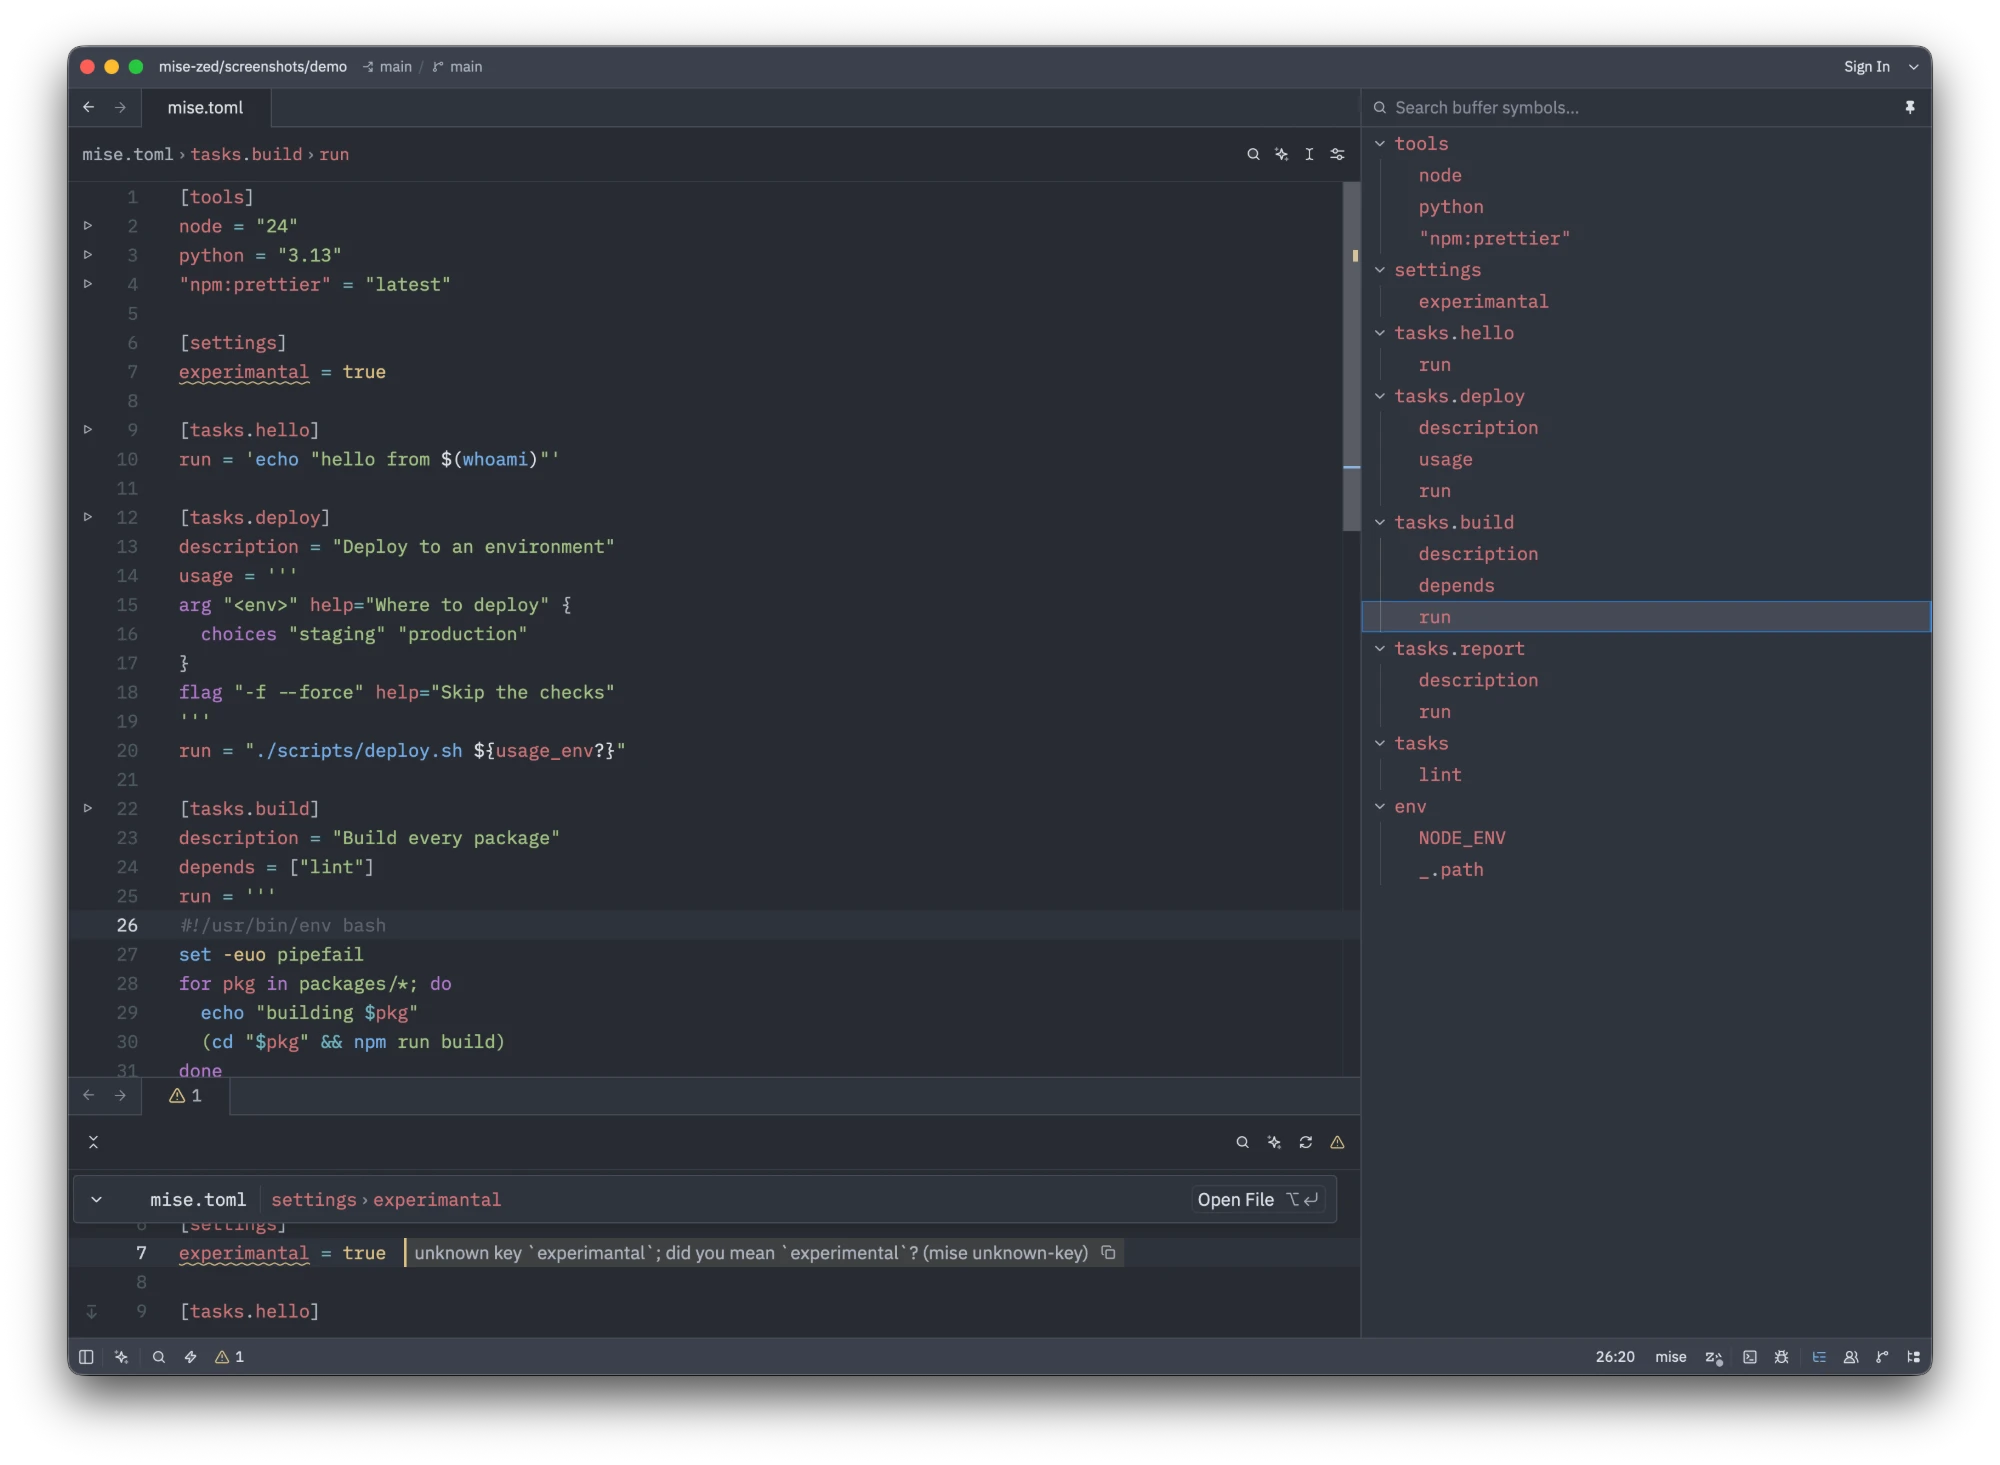
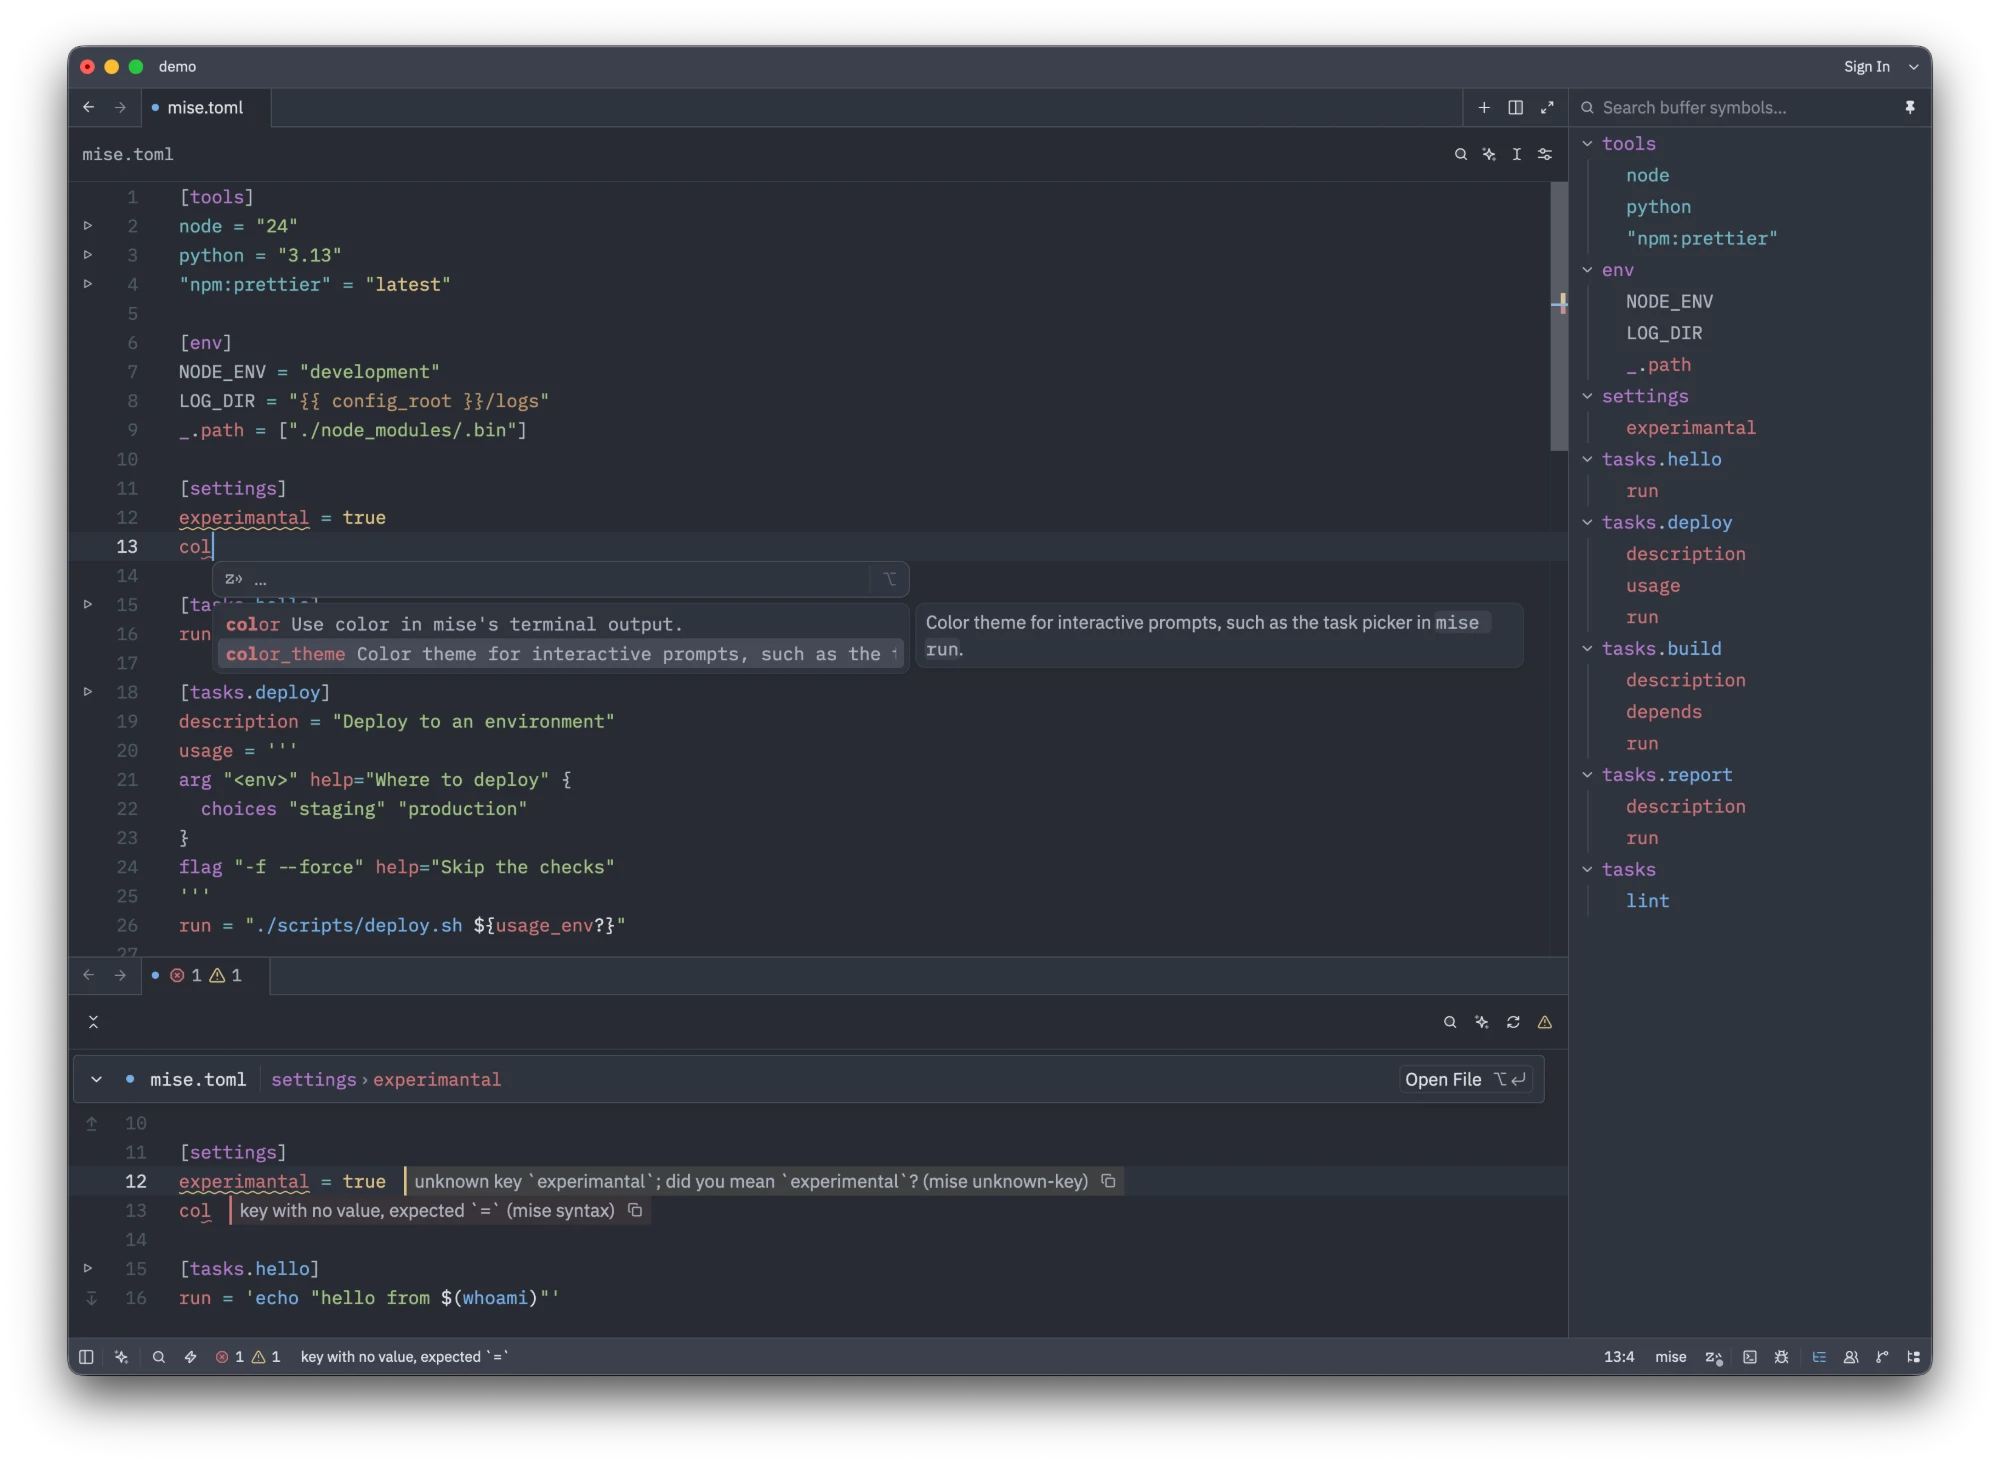
docs: a screenshot with the new highlights, completion and the outline

diff --git a/doc/development.md b/doc/development.md
@@ -90,8 +90,10 @@ $WASI_SDK/bin/clang -fPIC -shared -Os -Wl,--export=tree_sitter_tool_versions \
 ## Screenshot
 
 `screenshots/mise-zed.webp` shows `screenshots/demo/mise.toml`, which `mise lsp`
-reports one problem in, on purpose. Open that folder in Zed with the extension
-and a mise that has `mise lsp`, to take it again.
+reports one problem in, on purpose, with `col` typed under `[settings]` for the
+completion, the outline panel and the diagnostics panel. Open a copy of that
+folder outside git, so that the title has no branch and lines no blame, in Zed
+with the extension and a mise that has `mise lsp`, to take it again.
 
 ## Licenses
 
